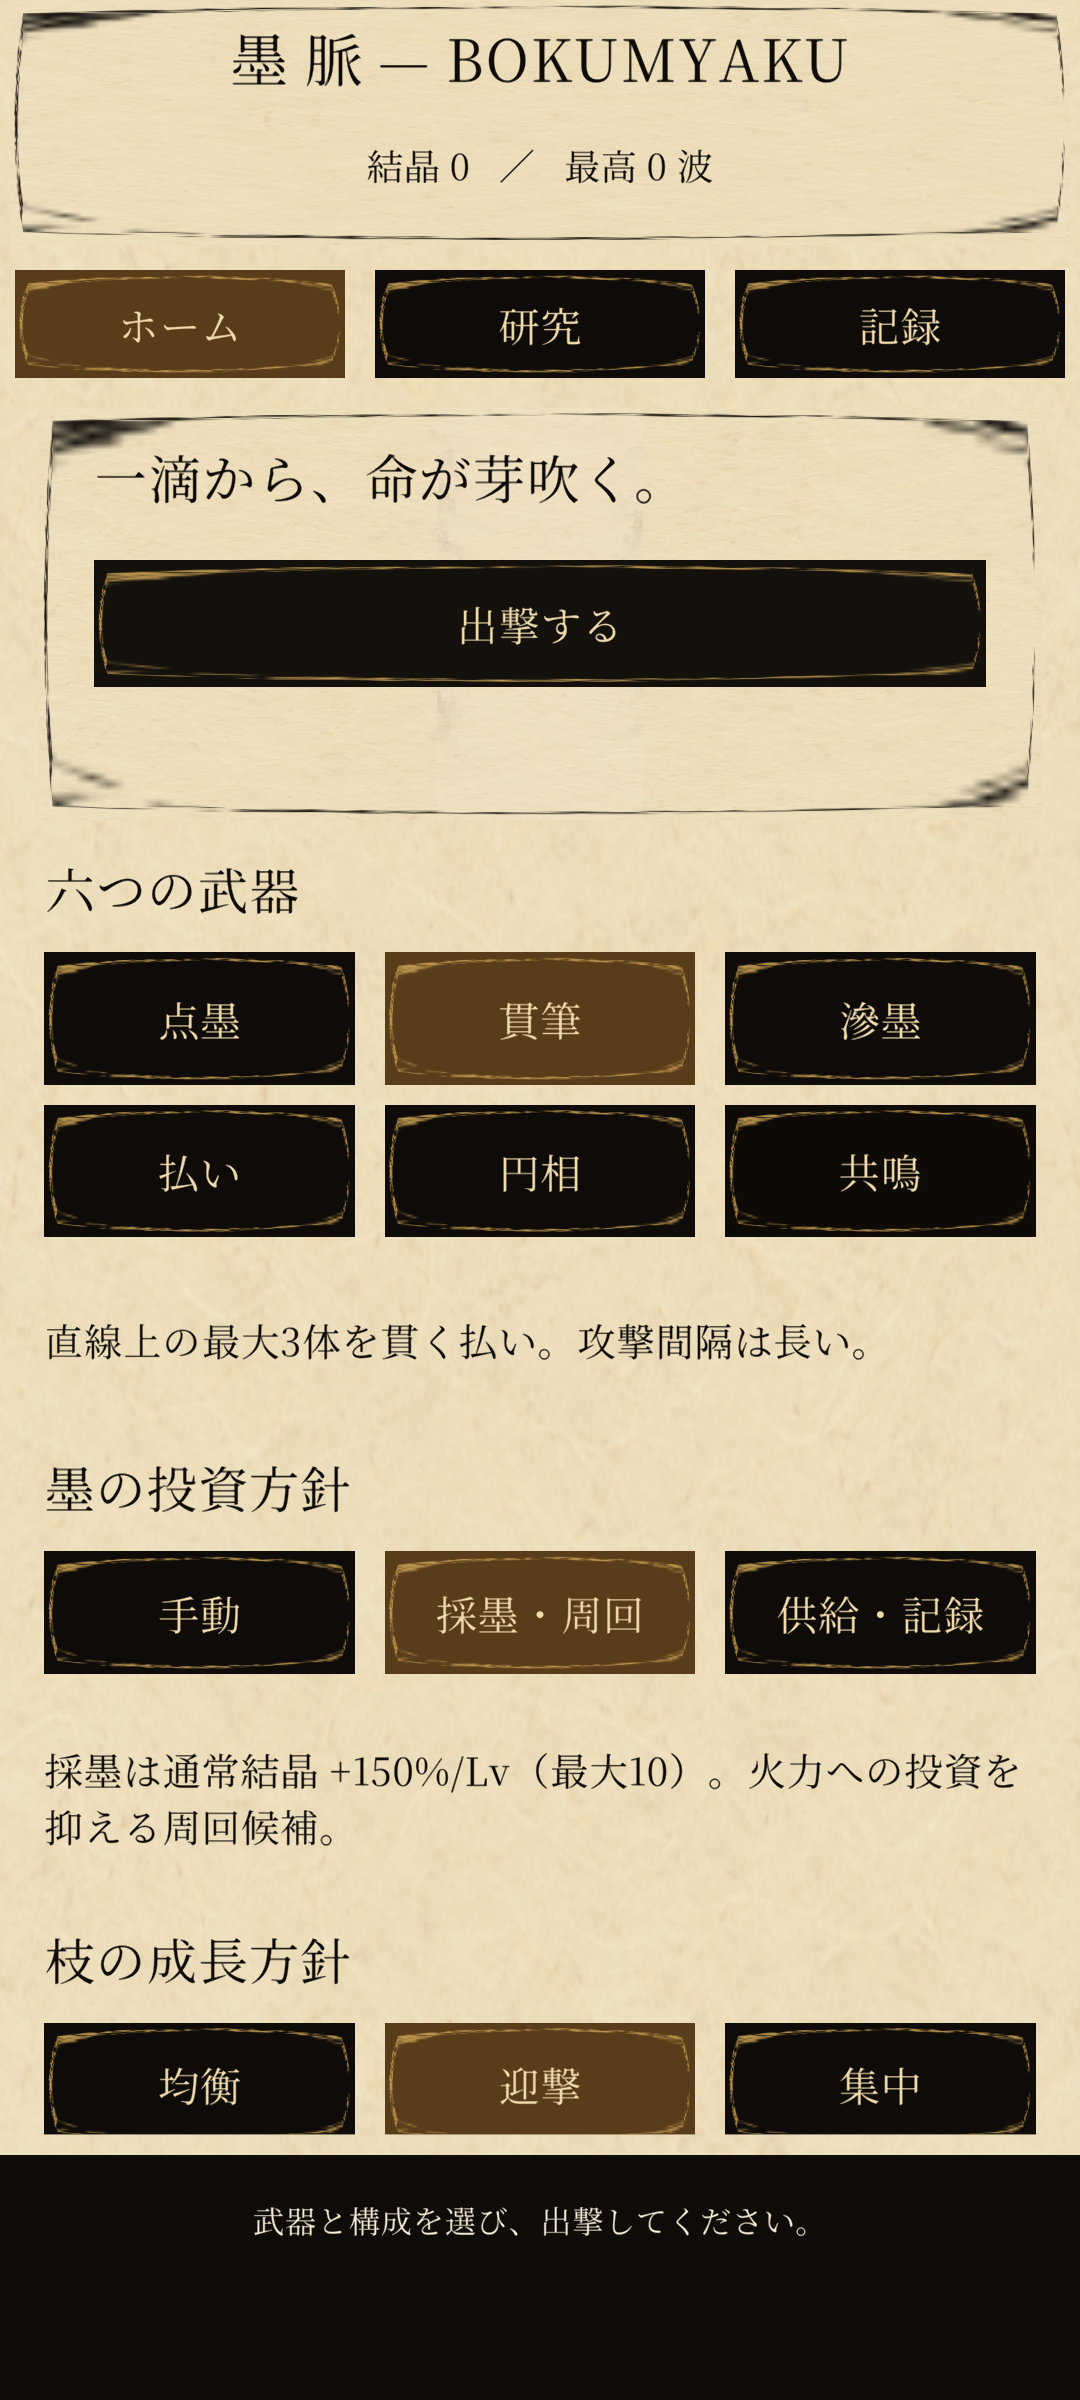
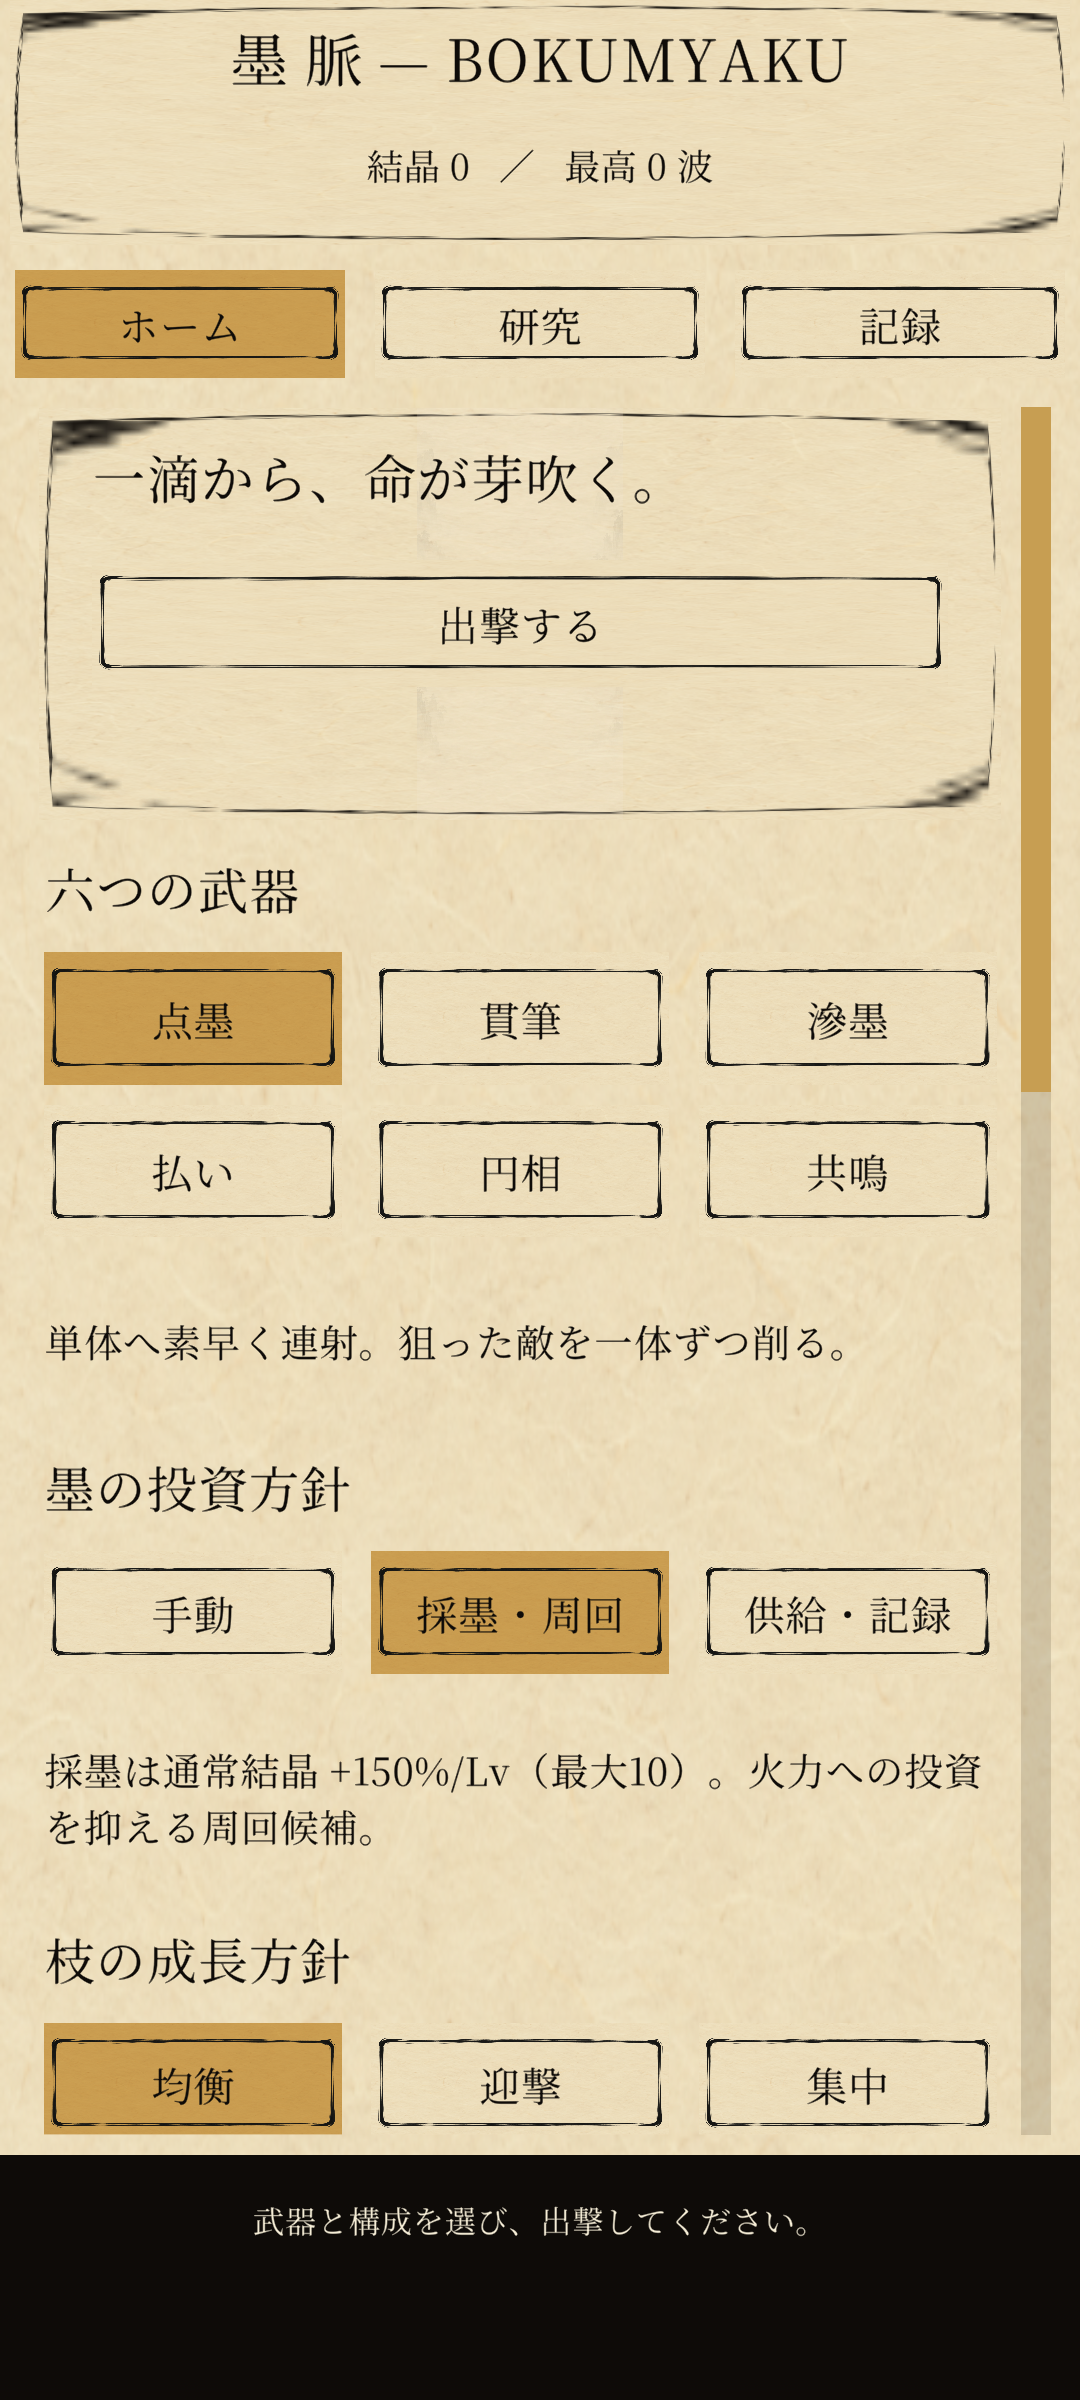
Integrate dedicated ink brush frames into paper menu buttons

Changed region(s): [[0.0, 0.0938, 1.0, 0.9062], [0.0306, 0.75, 0.3361, 0.7812]]

diff --git a/UnitySandbox/Assets/BokumyakuPrototype/Presentation/BokumyakuMenuHud.cs b/UnitySandbox/Assets/BokumyakuPrototype/Presentation/BokumyakuMenuHud.cs
@@ -17,7 +17,7 @@ namespace Bokumyaku.Presentation
         readonly List<Action> bindings = new List<Action>();
         readonly List<TextMeshProUGUI> historyLabels = new List<TextMeshProUGUI>();
         BokumyakuGame game; TMP_FontAsset font; Canvas canvas; RectTransform safe;
-        Sprite paperSprite, frameSprite, landscapeSprite; GameObject ownedEventSystem, confirmation;
+        Sprite paperSprite, frameSprite, landscapeSprite, buttonFrame; GameObject ownedEventSystem, confirmation;
         readonly GameObject[] pages = new GameObject[3]; readonly ScrollRect[] scrolls = new ScrollRect[3];
         RectTransform recordsContent; TextMeshProUGUI summary, notice, warning, recordsSummary;
         CampaignProgress snapshot; BokumyakuGame.GamePage lastPage = (BokumyakuGame.GamePage)(-1);
@@ -39,6 +39,7 @@ namespace Bokumyaku.Presentation
             gameObject.AddComponent<GraphicRaycaster>();
             if(FindFirstObjectByType<EventSystem>()==null) ownedEventSystem=new GameObject("BokumyakuMenuEventSystem",typeof(EventSystem),typeof(StandaloneInputModule));
             paperSprite=SpriteFor(paper,false);frameSprite=SpriteFor(ring,true);landscapeSprite=SpriteFor(landscape,false);
+            buttonFrame=Resources.Load<Sprite>("BokumyakuArt/button_ink_frame_03");
             var background=BokumyakuUiParts.Panel(transform,"MenuPaper",Vector2.zero,Vector2.one,ivory);background.sprite=paperSprite;
             safe=BokumyakuUiParts.Rect(transform,"MenuSafeArea",Vector2.zero,Vector2.one);
             var header=Box(safe,"MenuHeader",0,0,1,100);
@@ -87,10 +88,11 @@ namespace Bokumyaku.Presentation
         Button Button(Transform parent,string name,float left,float top,float right,float height,string caption,Action action)
         {
             var r=At(parent,name+"Layout",left,top,right,height);var b=BokumyakuUiParts.Button(r,name,font,Vector2.zero,Vector2.one,caption,()=>Act(action),out var label);label.fontSize=17;label.fontSizeMin=14.45f;label.fontSizeMax=17;
-            var edge=BokumyakuUiParts.Panel(b.transform,"BrushFrame",Vector2.zero,Vector2.one,gold);edge.sprite=frameSprite;edge.type=Image.Type.Sliced;edge.pixelsPerUnitMultiplier=3.5f;edge.transform.SetAsFirstSibling();return b;
+            ((Image)b.targetGraphic).sprite=paperSprite;((Image)b.targetGraphic).color=ivory;label.color=ink;
+            var edge=BokumyakuUiParts.Panel(b.transform,"BrushFrame",Vector2.zero,Vector2.one,Color.white);edge.sprite=buttonFrame??frameSprite;edge.type=Image.Type.Sliced;edge.fillCenter=false;edge.pixelsPerUnitMultiplier=24f;edge.transform.SetAsFirstSibling();return b;
         }
         void Act(Action action){game.MenuClick();action();Refresh();}
-        void Tint(Button button,bool selected){((Image)button.targetGraphic).color=selected?new Color(.35f,.24f,.10f):ink;}
+        void Tint(Button button,bool selected){((Image)button.targetGraphic).color=selected?new Color(.82f,.66f,.36f):ivory;}
         void BuildHome()
         {
             var p=scrolls[0].content;float y=0;

diff --git a/scripts/UnityAutomation~/ImportMenuFrame.cs b/scripts/UnityAutomation~/ImportMenuFrame.cs
@@ -1,0 +1,1 @@
+using UnityEditor;using UnityEngine;public static class ImportMenuFrame{public static object Run(){AssetDatabase.Refresh();var p="Assets/BokumyakuPrototype/Resources/BokumyakuArt/button_ink_frame_03.png";var i=(TextureImporter)AssetImporter.GetAtPath(p);i.textureType=TextureImporterType.Sprite;i.spriteImportMode=SpriteImportMode.Single;i.spriteBorder=new Vector4(300,240,300,240);i.maxTextureSize=4096;i.mipmapEnabled=false;i.alphaIsTransparency=true;i.textureCompression=TextureImporterCompression.Uncompressed;i.SaveAndReimport();return "imported sliced sprite";}}

diff --git a/docs/STATE.md b/docs/STATE.md
@@ -16,5 +16,5 @@
 
 ## 次の一手
 1. v6 Windowsビルド成功（68秒、error0/warning0）。非表示Player画像は黒一色で目視不合格。表示可能な環境で再確認。v5の6武器/自動周回/保存・別プロセス復帰は合格。
-2. 素材室の横長筆枠delivery-v3を受領・未統合。音室はmono低下0.045dB/30分PCM接続を検査、聴感未検証。参考画像への美術改善と密集時判読性。同tick生成・撃破の分裂子演出欠落が残る。
+2. 素材室の横長筆枠delivery-v3をメニューボタンへ統合。1080×2400の目視/主要操作を軽量再確認。音室はmono低下0.045dB/30分PCM接続を検査、聴感未検証。参考画像への美術改善と密集時判読性。同tick生成・撃破の分裂子演出欠落が残る。
 3. 音の聴感、初週バランス、スマホ実機は未達。PRODUCT_COMPLETION.md。リポジトリ分割は計画のみ。

diff --git a/docs/ART_DELIVERY.md b/docs/ART_DELIVERY.md
@@ -69,3 +69,4 @@
 候補納品。Unity import/実9-slice/1080×2400のホーム・研究操作/実機は未実施。黒背景上の黒枠は識別できないため色の組合せは統合時に確認。最終採用・商用権利の保証はしていない。
 
 書込みはart-source/delivery-v3/と本書への追記のみ。ゲームコード・STATE/TASKS・Runtime・Unity・Git操作なし。統合担当が枠とボタン色面を合わせ、ホームと研究で判読性を確認する。
+統合追記: delivery-v3の枠をメニューボタンへ採用。ImportMenuFrame.csでSprite設定、fillCenter=false。1080×2400ホーム目視と主要操作合格。menu-home-1080x2400.png参照。
